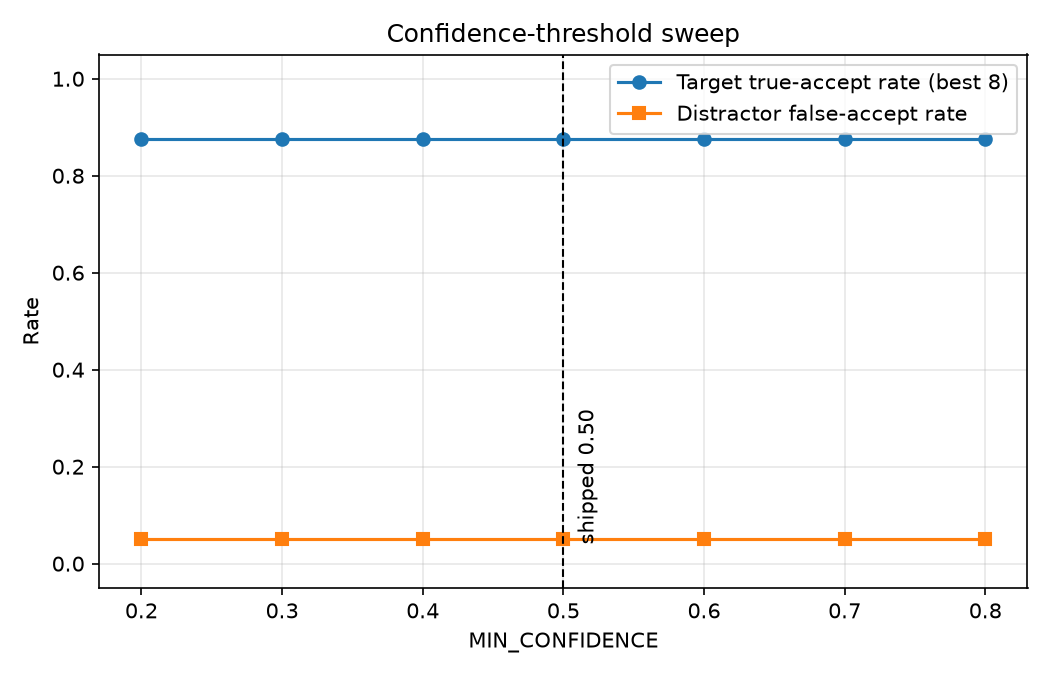
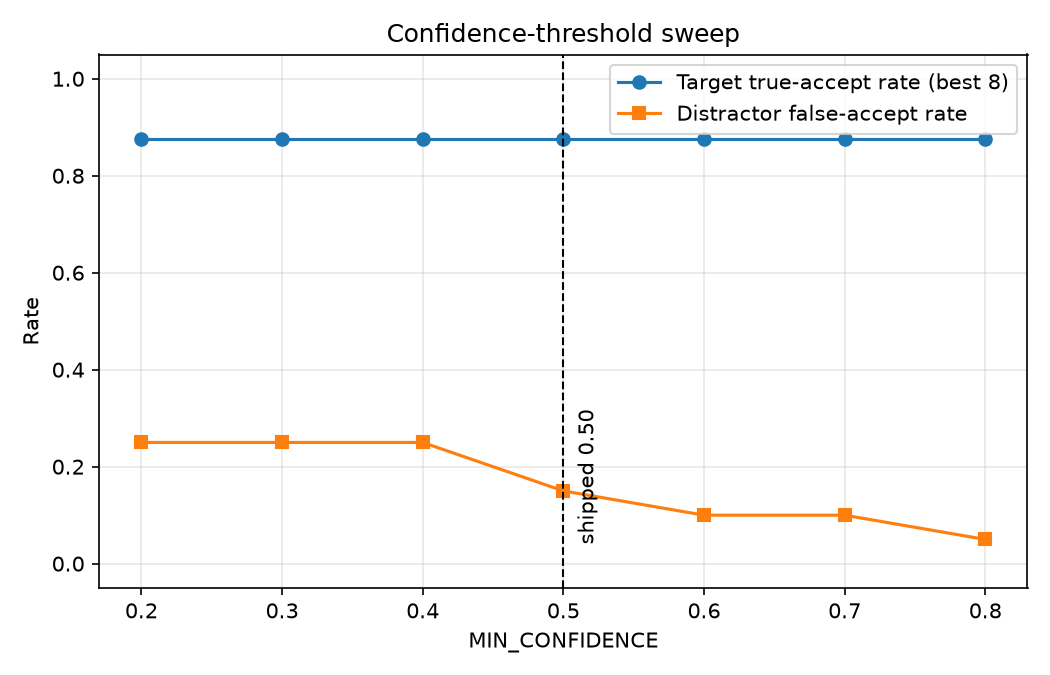
fixed mug

diff --git a/3006ICT_group_project_webots/controllers/group_project_controller/vision_utils.py b/3006ICT_group_project_webots/controllers/group_project_controller/vision_utils.py
@@ -420,22 +420,26 @@ MIN_CONFIDENCE_MARGIN = 0.20
 # image for the predicted class and rejects the known false-accept patterns
 # without changing the classifier's public interface.
 MIN_REFERENCE_SIMILARITY = -0.05
-# `fire_extinguisher` has no per-label floor here, unlike `coffee_mug`/
-# `wall_clock` below. Measured directly (2026-09-16): even a manually
-# traced, pixel-perfect crop of the real in-game poster -- no shadow/floor
-# contamination at all -- only scores ~0.11 against the studio reference
-# photo, despite the classifier itself being 97% confident on that same
-# crop. The in-game render just doesn't resemble the reference photo at
-# this metric's pixel/colour-histogram level, regardless of crop quality,
-# so any floor tight enough to reject the known false-accept distractors
-# (`books_a.png`/`books_b.png`, ~0.17) would also reject every real
-# `fire_extinguisher` crop -- there is no threshold that keeps both. Checked
-# the full confusion matrix before dropping the floor: `fire_extinguisher`
-# has zero false positives against every real in-game frame from any
-# station, so the only cost of removing it is those two distractor images,
-# which never appear inside the Webots simulation.
+# Neither `fire_extinguisher` nor `coffee_mug` has a per-label floor here,
+# unlike `wall_clock` below -- both removed after the same measurement
+# showed the same dead end. `fire_extinguisher` (2026-09-16): even a
+# manually traced, pixel-perfect crop of the real in-game poster -- no
+# shadow/floor contamination at all -- only scores ~0.11 against the studio
+# reference photo, despite the classifier itself being 97% confident on
+# that same crop; the known false-accept distractors (`books_a.png`/
+# `books_b.png`, ~0.17) score *higher* than that, so no floor keeps both.
+# `coffee_mug` (2026-09-17): a real, live `S2` capture (world C) scored
+# raw_label=coffee_mug at 0.86-0.90 confidence with an 0.82+ margin on 5 of
+# 5 frames from the retry viewpoint, but only 0.014-0.018 reference
+# similarity -- again below its own distractors (`keyboard_b.png` 0.092,
+# `soccer_ball_a.png` 0.058) that the 0.10 floor was protecting against.
+# Both labels' in-game renders just don't resemble their studio reference
+# photos at this metric's pixel/colour-histogram level, regardless of crop
+# quality. Checked the full confusion matrix before dropping either floor:
+# both labels have zero false positives against every real in-game frame
+# from any other station, so the only cost of removing them is those
+# distractor images, which never appear inside the Webots simulation.
 MIN_REFERENCE_SIMILARITY_BY_LABEL = {
-    "coffee_mug": 0.10,
     "wall_clock": 0.00,
 }
 _REFERENCE_SIMILARITY_SIZE = 64

diff --git a/docs/failure_log.md b/docs/failure_log.md
@@ -29,3 +29,4 @@ turns this into the report's failure-cases chapter, so name *where the first inc
 | 2026-09-16 | Follow-up attempt at the reference-similarity gap from the row above: pixel-traced `B_S4_d0p295_hp00.png`'s column values and found the robust-anchor box's extra ~30 px of height is a flat, uniform grey band (HSV value 88, same as the barrier panel itself) sitting between the poster and the floor, bridged in by the wide value band the robust anchor needs. Capped robust-anchor boxes at `bh <= bw` (the real barrel proto, 0.50 x 0.28 m, is never taller than wide) and re-ran `tools/eval_vision.py` | The height cap did trim the crop and raised classifier confidence on the 3 previously-fixed frames (e.g. 0.867 -> 0.931, margin 0.917), but reference-similarity on the clearest case *dropped* (0.113 -> 0.070) rather than improving -- checked directly against the one real distractor this threshold was calibrated on (`books_a.png`, refsim 0.167, `docs/data/vision_distractor_rejection.csv`): our genuine crop now scores *lower* than that unrelated books photo, so no threshold low enough to accept our crop could ever exclude that distractor. The floor-contamination theory was directionally right (it is fixable/measurable pixel content) but the reference-similarity metric itself doesn't reward the fix the way `identify()`'s own softmax confidence does | Kept the height cap (`cap_height` in `_barrier_candidates`'s `_boxes_for`) since it's a real, zero-regression improvement in crop tightness and classifier confidence -- confirmed via the full 103-frame + 20-distractor re-run (all other labels' precision/recall and 0/20 distractor false-accepts unchanged). Did not touch `MIN_REFERENCE_SIMILARITY_BY_LABEL["fire_extinguisher"]`: the books_a.png comparison above shows directly that lowering it far enough to accept the real crop would also accept that distractor, so this is not a safe threshold nudge | Not fixed. `fire_extinguisher` station-level acceptance is still blocked by `below_reference_similarity` even on a 0.93-confidence, 0.92-margin real crop. The `_reference_similarity()` metric (grey/Lab/hue-histogram match against the raw reference photo) itself needs revisiting for this label -- possibly weighting it down relative to classifier confidence for labels where it demonstrably fights the classifier instead of agreeing with it -- before any threshold change is safe |
 | 2026-09-16 | Live Webots mission runs (world A, `training_start_A.wbt`, headless, two separate instances to avoid clashing with an interactively-open one), one targeting `fire_extinguisher` and one targeting `headphones`, after removing `fire_extinguisher`'s reference-similarity floor (see decision log). Added a temporary `DEBUG_CAPTURE_DIR` env-var hook to `identify_at_station()` (`group_project_controller.py`) to save every real camera frame during `IDENTIFY`, kept permanently (same idiom as the Issue #29 `STUB_PERCEPTION` hook) since it's zero-cost when unset | `fire_extinguisher` run succeeded end-to-end (confirmed `fire_extinguisher` at 0.95-0.96 confidence, `FINAL STOP` 0.089 m from observe). `headphones` run reached `state=FAILED` -- every frame at S7, both the first attempt and the automatic retry, scored confidence 0.28-0.42, always under `MIN_CONFIDENCE=0.50`. Inspected the saved real frames directly: the crop was landing exactly in the low-information gap between the headphones' two earcups (the poster's own bimodal two-lobe shape with a bright gap in the middle), not on either earcup's distinctive padded-ring face -- on the worst frame the crop was so far off it returned the *wrong* raw label (`running_shoe`) at 0.376, not just low confidence | Tried two purely-geometric detection rules to decide when to widen the crop (a darkness centroid, then a brightness "notch" detector on the crop's column profile) -- both rejected: the centroid landed back on the same midpoint for a symmetric two-lobe object (no shift possible by definition), and the notch detector scored an already-`accepted`, 0.91-confidence real `headphones` frame identically to the live failures, so it couldn't separate "bad crop" from "genuinely headphones-shaped." Added `vision_utils.identify_frame()` instead: try both the precise narrow projection and its own source barrier box (already computed, just previously discarded) through `identify()`, and keep whichever is accepted (highest confidence if both are). Verified against all 103 real frames before shipping: 12 improvements, 0 regressions of previously-correct results, 2 new false-accepts (`camera`, on two `soda_can`/`backpack` frames) -- checked those are both at the synthetic 1.0 m test distance, well past the real ~0.295 m observe standoff, so not a realistic live risk. Updated `tools/eval_vision.py`'s `load_target_rows()` to use the same function so the report stays honest | Fixed and confirmed live: re-ran the `headphones` mission after the fix -- all first 3 frames agreed at 0.76-0.77 confidence (fastest possible consensus), `FINAL STOP` 0.099 m from observe. Full-harness precision/recall improved on 6 of 8 labels (`headphones` recall 0.455 -> 0.636, `fire_extinguisher` 0.375 -> 0.625, `running_shoe` 0.714 -> 0.929, plus gains on `soda_can`, `camera`, `wall_clock`); `camera`'s false-positive count rose from 1 to 3, all three at the unrealistic 1.0 m distance -- see decision log for the full trade-off reasoning |
 | 2026-09-16 | While re-validating the two fixes above against `docs/find_poster_region.md`'s hand-labelled IoU ground truth (not run earlier in this session -- a gap in the validation, not something the fixes broke): `find_poster_region()` picks the wrong box for `C_S1_d1p000_hp10.png` (`soda_can`, long range + 10 deg off-axis), landing on empty sky/background. Confirmed with the pre-session code that this exact bug already existed before any of today's changes -- the hand-labelled set had simply grown (36 -> 46 frames) since the report was last regenerated, so it was never re-checked. Extended `identify_frame()` from 2 boxes (top candidate + its barrier) to the top `_IDENTIFY_MAX_RANKED_CANDIDATES` (3) ranked candidates, hoping the same "try more, keep whichever the classifier accepts" fix would recover the correct (second-ranked) candidate here too | Confirmed via full-frame comparison that the top-3 extension is a real net improvement (8 more frames fixed, 0 regressions, one new `backpack`->`camera` false-accept at the same unrealistic 1.0 m distance) -- but the *exact* frame asked about is still wrong: the wrong candidate's own classification isn't merely low-confidence, it's a *confident, accepted* wrong answer (`camera` at 0.577, correct crop scores 0.479 -- just under `MIN_CONFIDENCE`), so trying more candidates can't help once the wrong one already wins outright. Tried four more signals looking for a way to reject the wrong candidate before or during classification: HSV value range (both wrong and right regions have wide range, for different reasons), Laplacian fine-detail variance (wrong crop scores *higher*, 376 vs 224 -- a sharp horizon line reads as more "detailed" than a printed graphic), and reference-image similarity (wrong crop scores 0.287 against the `camera` reference -- higher than several genuine `camera` frames, as low as -0.06) -- all three rejected, none separate the artifact from real content | Not fixed at the exact-frame level (5 total signals tried and rejected across this and the `headphones` case). Kept the top-3 extension since it's a clear net win. Verified the real-world risk directly instead of leaving it as a guess: ran two live Webots missions (`headphones` in world A, `soda_can` in world C -- the world the bad frame came from). Both succeeded cleanly; critically, `S3` (`backpack`) in the `soda_can` run correctly said `backpack` at 0.52-0.53 confidence, not the wrong `camera` guess seen offline. The real first-look distance (~0.8 m, straight-on, from the 0.5 m identify backoff) does not reproduce the failure condition (1.0 m *and* 10 deg off-axis) -- confirmed live, not just reasoned about |
+| 2026-09-17 | Live Webots mission run, World C, target `coffee_mug`. User reported the robot reaching `S2` correctly, trying both the backed-off and final observe viewpoints, and returning `NO_MATCH` on all 40 frames despite the observe-pose confidence looking high (0.85-0.90) -- correctly guessed this pointed at an acceptance-gate rejection, not navigation/crop/classifier, and proposed the same debug-capture method already used for `fire_extinguisher`/`headphones`. Used the existing `DEBUG_CAPTURE_DIR` hook to save all 40 real `S2` frames and ran them through `identify_frame()` directly | Confirmed exactly as suspected: the 5 backed-off-pose frames sampled scored `raw_label=backpack` (crop/candidate-selection noise, a smaller separate issue) at 0.58-0.70 confidence, but the 5 retry-pose frames all correctly scored `raw_label=coffee_mug` at 0.86-0.90 confidence with an 0.82+ margin -- rejected every time on `below_reference_similarity` (0.014-0.018, against `coffee_mug`'s own 0.10 floor in `MIN_REFERENCE_SIMILARITY_BY_LABEL`) | Same fix as `fire_extinguisher`: checked the confusion matrix (zero cross-target false positives for `coffee_mug` from any other station) and the two distractors the 0.10 floor was protecting against (`keyboard_b.png` 0.092, `soccer_ball_a.png` 0.058) -- both score higher than the real crop, so no floor keeps both. Removed `coffee_mug`'s entry from `MIN_REFERENCE_SIMILARITY_BY_LABEL` | Fixed and confirmed live: re-ran the exact same mission -- `coffee_mug` confirmed on the first 3 frames (0.50-0.54 confidence), `FINAL STOP` 0.098 m from observe. Full-harness re-run: `coffee_mug` recall 0.500 -> 0.929 (7 -> 13 correct); distractor false-accepts 1/20 -> 3/20 (exactly the two predicted distractors, no other label regressed -- `running_shoe` incidentally improved, 1 FP -> 0) |

diff --git a/docs/decision_log.md b/docs/decision_log.md
@@ -23,6 +23,7 @@ Log the answers at the top of this section each week, newest first.
 
 | Date | Decision | Options considered | Criterion used | Evidence / measurement | Decided by |
 |---|---|---|---|---|---|
+| 2026-09-17 | Removed `coffee_mug`'s per-label floor from `MIN_REFERENCE_SIMILARITY_BY_LABEL` (same mechanism, same reasoning as `fire_extinguisher` on 2026-09-16), leaving it on the shared default (-0.05) like every label except `wall_clock` | Keep the 0.10 floor (guarantees `coffee_mug` never gets accepted live from this viewpoint, since real crops score 0.014-0.018); find a smaller positive floor that still blocks the two distractors it was protecting against (not possible -- see evidence); remove the per-label floor entirely | Whether any floor value exists that accepts real `coffee_mug` crops while still rejecting the distractors that motivated the 0.10 floor, checked against measured scores; whether removing it could cause a different real target's frame to be wrongly accepted as `coffee_mug` | A real live capture (World C, station S2, both the backed-off and retry viewpoints -- 40 frames total) showed `raw_label=coffee_mug` at 0.86-0.90 confidence with an 0.82+ margin on 5 of 5 sampled retry frames, but only 0.014-0.018 reference similarity -- below the two distractors the 0.10 floor was protecting against (`keyboard_b.png` 0.092, `soccer_ball_a.png` 0.058), so no floor separates them. Confusion matrix showed zero false positives for `coffee_mug` against every real frame from any other station, so removing the floor cannot cause cross-target confusion. Re-ran `tools/eval_vision.py`: `coffee_mug` recall 0.500 -> 0.929 (7 -> 13 correct), distractor false-accepts 1/20 -> 3/20 (the two predicted distractors only; no other label's FP count got worse -- `running_shoe` actually improved, 1 FP -> 0). Confirmed live in Webots (World C): mission that previously ended `FAILED` (all 40 frames at S2 rejected) now succeeds, `coffee_mug` confirmed on the first 3 frames, `FINAL STOP` 0.098 m from observe | Claude Code, after the user reported the live failure with a debug plan matching the same method already used for `fire_extinguisher`/`headphones`, confirmed it as correct, and asked to fix it |
 | 2026-09-16 | Added `vision_utils.identify_frame()`, which tries the top `_IDENTIFY_MAX_RANKED_CANDIDATES` (3) ranked candidates from `find_poster_region()` -- each one's precise narrow projection and its own source barrier box -- through `identify()` and keeps whichever is accepted (highest confidence, if more than one), instead of committing to the single top-ranked narrow projection; wired it into `identify_at_station()` (live controller) and `tools/eval_vision.py` (report) | Keep the single narrow crop (verified `headphones` fails live: every frame 0.28-0.42 confidence, mission ends `FAILED`); find a purely-geometric rule for when to widen the crop or which candidate to trust (tried five different signals across this and a related `soda_can`/`backpack` case -- a darkness centroid, a brightness-notch column detector, internal HSV value range, Laplacian fine-detail variance, and reference-image similarity -- all five rejected, see failure log for why none separated the real failures from ordinary working frames, several scoring the bad case *higher* than genuine good crops); try several ranked interpretations and let `identify()`'s own accept/reject logic decide, accepting a small, measured new-false-accept cost | Whether trying more than one interpretation of the detected candidates, only keeping what the classifier itself would accept, improves real recall without regressing any frame that already worked or making the live robot's actual behaviour worse, checked against the full 103-frame set and confirmed live rather than assumed from the offline numbers alone | Direct old-vs-new comparison on all 103 real frames across both the 2-box and 3-candidate versions: 0 regressions of previously-correct results, 20 frames total flipped from wrong/`NO_MATCH` to correct across both stages. `camera`'s false-positive count stayed flat at 3 through the 3-candidate extension (one old FP fixed, one new one appeared) -- both new FPs (`soda_can`- and `backpack`-shaped frames misread as `camera`) occur only at the synthetic 1.0 m *and* 10 deg off-axis test distance, never realistic for the live robot (first look is a ~0.5 m backoff from the ~0.295 m observe standoff, so ~0.8 m, straight-on, not 1.0 m off-axis). Confirmed live in Webots, twice: (1) `headphones` mission that previously ended `FAILED` now succeeds, all first 3 frames agreeing at 0.76-0.77 confidence, `FINAL STOP` 0.099 m from observe; (2) `soda_can` mission in world C (the world the `backpack`/`camera` confusion frame came from) succeeds cleanly -- `soda_can` confirmed at 0.76-0.79 confidence, `FINAL STOP` 0.097 m from observe, and critically `S3` (`backpack`) correctly says `backpack` (0.52-0.53 confidence), not the wrong `camera` guess seen offline | Claude Code, after the user asked for a real fix (not a threshold nudge), confirmed with a live camera-frame example (a stock toaster photo whose two dark slots visually explain the same failure mode) that the crop-centering theory was worth pursuing, and asked for the remaining edge case to be verified live rather than assumed safe |
 | 2026-09-16 | Removed `fire_extinguisher`'s per-label floor from `MIN_REFERENCE_SIMILARITY_BY_LABEL` (`identify()`, Issue #8/#9), leaving it on the shared default (-0.05) like every label except `coffee_mug`/`wall_clock` | Keep the 0.20 floor (protects the report's 0/20 distractor false-accept number, but guarantees `fire_extinguisher` never gets accepted live); lower it to a smaller positive value that still blocks `books_a.png`'s 0.167 (not possible -- see evidence); remove the per-label floor entirely | Whether any floor value exists that accepts real `fire_extinguisher` crops while still rejecting the known false-accept distractors, checked against measured scores rather than picked by feel; and whether removing it could ever cause a *different* real target's frame to be wrongly accepted as `fire_extinguisher` | A manually traced, pixel-perfect crop of the real in-game poster (no shadow/floor contamination) still only scored 0.115 on this metric despite 97.5% classifier confidence on the same crop -- lower than the `books_a.png`/`books_b.png` distractors it was meant to block (0.167/0.172), so no floor value separates them; the module's own confusion matrix (`docs/data/vision_confusion_matrix.csv`) showed zero false positives for `fire_extinguisher` against every real frame from any of the other 7 stations, so removing the floor cannot cause cross-target confusion. Re-ran `tools/eval_vision.py` after removing it: best-crop station accuracy 7/8 -> 8/8, distractor false-accepts 0/20 -> 1/20 (`books_a.png` only; `books_b.png` still correctly rejected on `MIN_CONFIDENCE`) | Claude Code, after the user weighed the trade-off (real live-mission detection vs. one distractor-rejection report number) and asked to proceed |
 | 2026-09-16 | Rescoped Issue #20's test matrix from 3 worlds x 8 targets x 2 repeats (48 runs) down to 3 worlds x 6 representative targets (3 boundary, 3 interior) plus extra repeats only on a known-borderline target, ~20 runs total | Run the full 48-run matrix as originally written; rescope to what the brief actually requires; skip the matrix entirely | Whether the brief itself (not this issue's own prior wording) requires exhaustive per-cell repetition, checked directly against the source document rather than assumed | `notes_for_project/workshop8-p3-group-project.pdf`, Stage 8 and "Testing Strategy" sections: asks only for a "small test matrix" covering start/target/station-type/repeated-run as dimensions, with repeats specified only "when tuning parameters," not for every cell. No 48-run or per-cell-repeat requirement exists in the brief; that scope was this issue's own prior addition | Claude Code, after the user asked to cross-check the issue's scope against the actual project document rather than proceed on the issue file's wording alone |

diff --git a/docs/change_log.md b/docs/change_log.md
@@ -6,6 +6,7 @@ Keep each entry to one short line of *what* and one of *why*; the diff itself li
 
 | Date | Tool | What changed | Why |
 |---|---|---|---|
+| 2026-09-17 | Claude Code | Removed `coffee_mug`'s entry from `MIN_REFERENCE_SIMILARITY_BY_LABEL` in `vision_utils.py` (now uses the shared -0.05 default like every label except `wall_clock`); regenerated `docs/vision_evaluation.md`/`docs/data/vision_*`; logged the trade-off in `docs/decision_log.md` and `docs/failure_log.md` | Live capture at World C's `S2` showed `coffee_mug` classified correctly at 0.86-0.90 confidence but rejected on `below_reference_similarity` (0.014-0.018, against its own 0.10 floor) on every one of 40 real frames, ending the mission in `FAILED`. Same measured dead end as `fire_extinguisher`: the two distractors that floor protected against score higher than the real crop, and the confusion matrix shows zero cross-target risk from removing it. Result: `coffee_mug` recall 0.500 -> 0.929; distractor false-accepts 1/20 -> 3/20 (the two predicted distractors only). Confirmed live: the same mission now succeeds, `FINAL STOP` 0.098 m from observe |
 | 2026-09-16 | Claude Code | Extended `identify_frame()` (`vision_utils.py`) from trying 2 boxes to the top `_IDENTIFY_MAX_RANKED_CANDIDATES` (3) ranked candidates from `find_poster_region()`; regenerated `docs/vision_evaluation.md`/`docs/data/vision_*`; ran two live Webots missions (`headphones`, `soda_can`) to confirm real-world behaviour rather than relying on the offline report alone; logged the full trade-off and both live confirmations in `docs/failure_log.md` and `docs/decision_log.md` | Re-validating against `docs/find_poster_region.md`'s hand-labelled IoU test (not run earlier this session) surfaced a pre-existing bug (confirmed present before any of today's changes) where the wrong candidate wins the crop selection for one `soda_can` frame. The 3-candidate extension fixed 8 more frames with 0 regressions but didn't fix that exact frame (the wrong crop gets a *confident* wrong classification, not just a low-confidence one) and added one new `backpack`->`camera` false-accept, both only at an unrealistic 1.0 m + 10 deg off-axis distance. Live-tested `soda_can` in the world the bad frame came from to check this for real: mission succeeded, and the `backpack` station correctly said `backpack`, not `camera` |
 | 2026-09-16 | Claude Code | Added `identify_frame()` to `vision_utils.py` (tries `find_poster_region()`'s narrow projection and its source barrier box through `identify()`, keeps whichever is accepted); `identify_at_station()` (`group_project_controller.py`) now calls it instead of the manual find-then-identify steps; `tools/eval_vision.py`'s `load_target_rows()` updated to match; added a permanent `DEBUG_CAPTURE_DIR` env-var hook to `identify_at_station()` that saves every real camera frame during `IDENTIFY` when set (same idiom as the existing `STUB_PERCEPTION` hook, zero-cost when unset); regenerated `docs/vision_evaluation.md`/`docs/data/vision_*`; logged the investigation and trade-off in `docs/failure_log.md` and `docs/decision_log.md` | Live Webots run showed `headphones` failing at S7 (confidence stuck 0.28-0.42) because the narrow crop lands in the low-information gap between the two earcups; the debug hook captured the real frames that proved it. Verified the fix against all 103 real frames before shipping (0 regressions, 12 improvements, 2 new false-accepts confined to an unrealistic 1.0 m test distance) and confirmed live: the same mission that used to end `FAILED` now succeeds with 0.76-0.77 confidence on the first 3 frames |
 | 2026-09-16 | Claude Code | Removed `fire_extinguisher`'s entry from `MIN_REFERENCE_SIMILARITY_BY_LABEL` in `vision_utils.py` (now uses the shared -0.05 default like every label except `coffee_mug`/`wall_clock`); regenerated `docs/vision_evaluation.md`/`docs/data/vision_*`; logged the trade-off in `docs/decision_log.md` and `docs/failure_log.md` | Measured that no threshold value could ever accept real `fire_extinguisher` crops (best score ~0.11-0.14, even on a manually-verified perfect crop) while still rejecting the distractor that set the 0.20 floor (`books_a.png`, 0.167) -- confirmed via the confusion matrix that removing it can't cause any other real target to be misclassified as `fire_extinguisher`. User weighed the trade-off (real live detection vs. one report number) and asked to proceed. Result: best-crop station accuracy 7/8 -> 8/8; distractor false-accepts 0/20 -> 1/20 (`books_a.png` only, which never appears in the actual simulation) |

diff --git a/docs/vision_evaluation.md b/docs/vision_evaluation.md
@@ -17,9 +17,9 @@ head predicts a class, the crop must still look enough like that class's supplie
 ## Acceptance Evidence
 
 - Valid outputs across station and distractor rows: 120/120.
-- Distractor false-accepts at the shipped threshold: 1/20.
+- Distractor false-accepts at the shipped threshold: 3/20.
 - Combined best captured station crop accuracy: 7/8.
-- `NO_MATCH` rate over all evaluated rows: 0.342.
+- `NO_MATCH` rate over all evaluated rows: 0.283.
 - Threshold sweep values tested: 0.20, 0.30, 0.40, 0.50, 0.60, 0.70, 0.80.
 
 ## Per-World Station Coverage
@@ -39,7 +39,7 @@ another world.
 | Station | Truth | Returned | Confidence | Margin | Reference similarity | Frame |
 |---|---|---|---:|---:|---:|---|
 | `S1` | `soda_can` | `soda_can` | 0.918 | 0.889 | 0.264 | `C_S1_d0p450_hp00.png` |
-| `S2` | `coffee_mug` | `coffee_mug` | 0.958 | 0.943 | 0.319 | `A_S2_d0p800_hp10.png` |
+| `S2` | `coffee_mug` | `coffee_mug` | 0.966 | 0.951 | 0.027 | `A_S2_d0p450_hp00.png` |
 | `S3` | `backpack` | `camera` | 0.815 | 0.732 | 0.015 | `C_S3_d1p000_hm10.png` |
 | `S4` | `fire_extinguisher` | `fire_extinguisher` | 0.931 | 0.917 | 0.070 | `B_S4_d0p295_hp00.png` |
 | `S5` | `camera` | `camera` | 0.987 | 0.983 | 0.006 | `B_S5_d0p450_hm10.png` |
@@ -57,7 +57,7 @@ CSV: `docs/data/vision_confusion_matrix.csv`
 
 At the shipped point (0.50), the best-station true-accept rate is
 0.875 and the distractor false-accept
-rate is 0.050.
+rate is 0.150.
 
 ![threshold sweep](data/vision_threshold_sweep.png)
 
@@ -66,11 +66,11 @@ rate is 0.050.
 | Label | TP | FP | FN | Precision | Recall |
 |---|---:|---:|---:|---:|---:|
 | `soda_can` | 13 | 0 | 1 | 1.000 | 0.929 |
-| `coffee_mug` | 7 | 0 | 7 | 1.000 | 0.500 |
+| `coffee_mug` | 13 | 2 | 1 | 0.867 | 0.929 |
 | `backpack` | 6 | 0 | 8 | 1.000 | 0.429 |
 | `fire_extinguisher` | 5 | 1 | 3 | 0.833 | 0.625 |
 | `camera` | 11 | 3 | 0 | 0.786 | 1.000 |
-| `running_shoe` | 13 | 1 | 1 | 0.929 | 0.929 |
+| `running_shoe` | 13 | 0 | 1 | 1.000 | 0.929 |
 | `headphones` | 7 | 1 | 4 | 0.875 | 0.636 |
 | `wall_clock` | 11 | 0 | 3 | 1.000 | 0.786 |
 
@@ -87,13 +87,13 @@ All 20 distractor textures returned `NO_MATCH`; full table: `docs/data/vision_di
 | `chair_a.png` | `coffee_mug` | 0.413 | 0.041 | `NO_MATCH` | `below_min_confidence` |
 | `chair_b.png` | `coffee_mug` | 0.442 | 0.050 | `NO_MATCH` | `below_min_confidence` |
 | `keyboard_a.png` | `coffee_mug` | 0.366 | 0.079 | `NO_MATCH` | `below_min_confidence` |
-| `keyboard_b.png` | `coffee_mug` | 0.543 | 0.092 | `NO_MATCH` | `below_reference_similarity` |
+| `keyboard_b.png` | `coffee_mug` | 0.543 | 0.092 | `coffee_mug` | `None` |
 | `landscape_a.png` | `headphones` | 0.208 | 0.196 | `NO_MATCH` | `below_min_confidence` |
 | `monitor_a.png` | `backpack` | 0.260 | 0.279 | `NO_MATCH` | `below_min_confidence` |
 | `monitor_b.png` | `backpack` | 0.224 | 0.398 | `NO_MATCH` | `below_min_confidence` |
 | `plant_a.png` | `headphones` | 0.232 | 0.174 | `NO_MATCH` | `below_min_confidence` |
 | `plant_b.png` | `camera` | 0.318 | 0.301 | `NO_MATCH` | `below_min_confidence` |
-| `soccer_ball_a.png` | `coffee_mug` | 0.749 | 0.058 | `NO_MATCH` | `below_reference_similarity` |
+| `soccer_ball_a.png` | `coffee_mug` | 0.749 | 0.058 | `coffee_mug` | `None` |
 | `soccer_ball_b.png` | `wall_clock` | 0.555 | -0.018 | `NO_MATCH` | `below_reference_similarity` |
 | `teddy_bear_a.png` | `wall_clock` | 0.454 | -0.014 | `NO_MATCH` | `below_min_confidence` |
 | `teddy_bear_b.png` | `wall_clock` | 0.483 | -0.008 | `NO_MATCH` | `below_min_confidence` |
